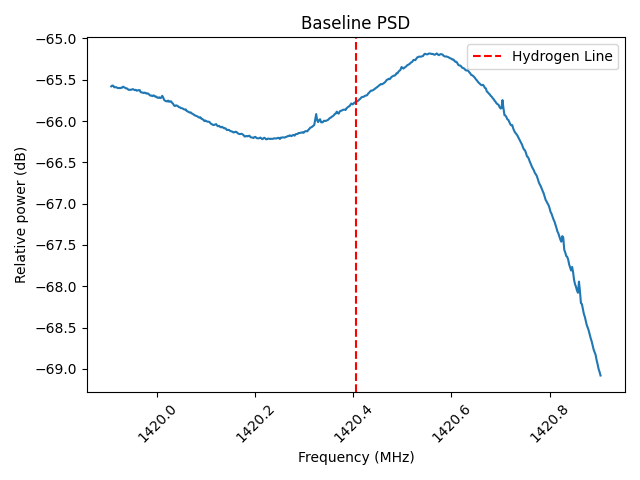
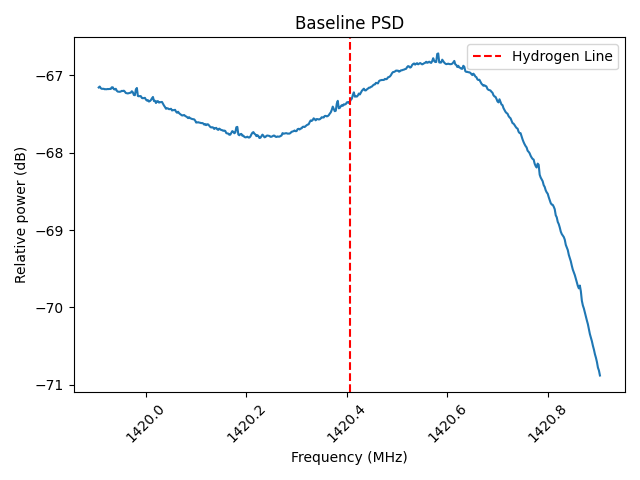
general

diff --git a/observation.py b/observation.py
@@ -114,7 +114,7 @@ def average_sample(sdr, num_iterations, num_samples, NFFT):
 
     # removes DC spikes. DC Spikes may be caused by the behavior of the SDR,
     # LNA, and even changes with factors like temperature
-    Pxx_dB = medfilt(Pxx_dB, kernel_size=45)
+    Pxx_dB = medfilt(Pxx_dB, kernel_size=35)
 
     # Normalization to the median should work better than normalization to the 
     # minimum. If there is a spike downwards, that could create a problem for a 
